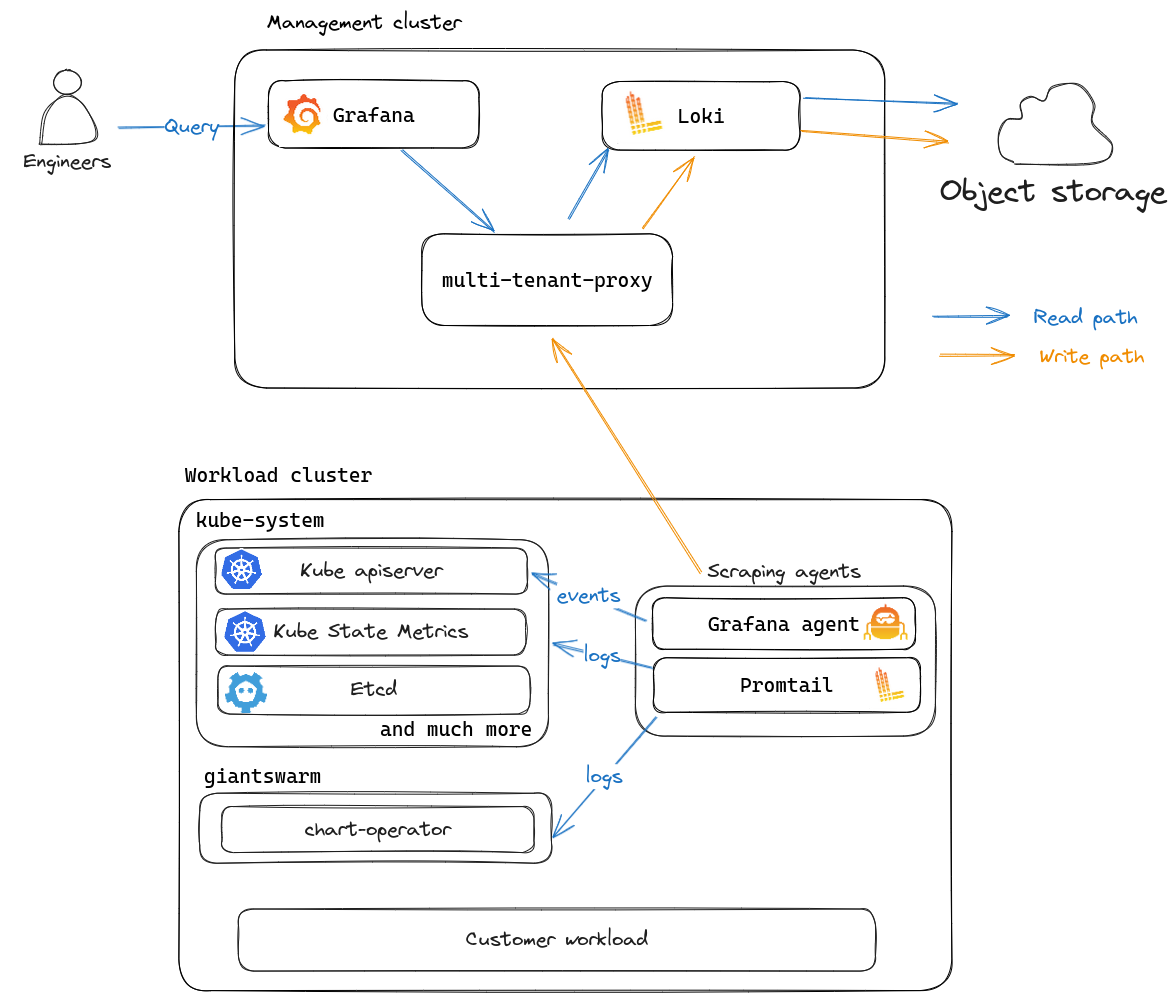
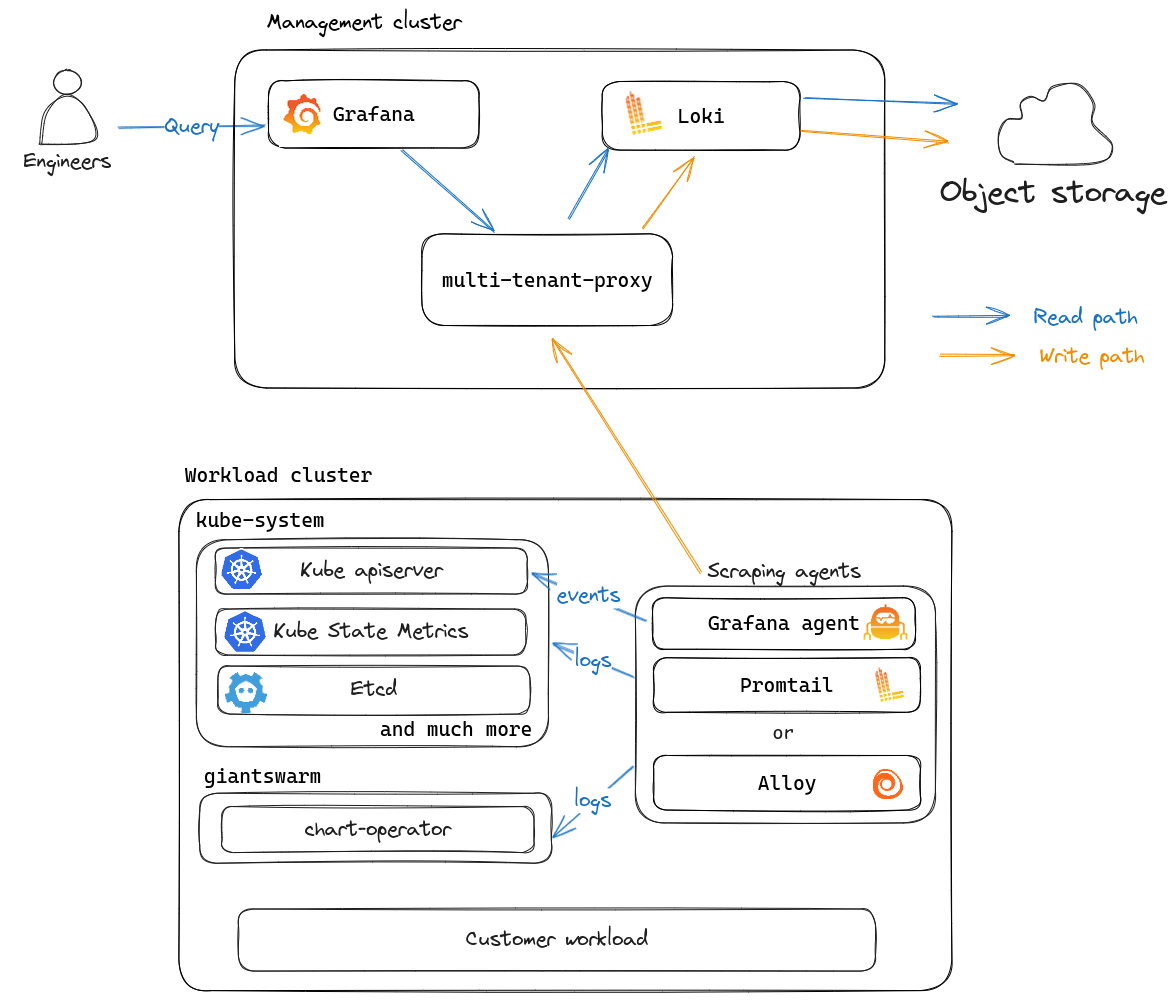
Update logging architecture

diff --git a/src/content/vintage/getting-started/observability/logging/architecture/index.md b/src/content/vintage/getting-started/observability/logging/architecture/index.md
@@ -35,9 +35,21 @@ In this diagram, you can see that we run the following tools in each management 
 
 - `Grafana Loki` that is accessible through our managed Grafana instance.
 - `multi-tenant-proxy`, a proxy component used to handle multi-tenancy for Loki.
-- A couple of logging agents (`Grafana Promtail` and `Grafana Agent`) that run on the management cluster and your workload clusters alike. We currently need two different tools for different purposes.
-    - Promtail is used to retrieve the container and kubernetes audit logs
+- A couple of scrapping agents run on the management cluster and your workload clusters alike. There is different tools for different purposes:
+    - Promtail is used in older versions to retrieve the container and kubernetes audit logs.
+    - Alloy is used in newer versions to retrieve the container and kubernetes audit logs.
     - Grafana Agent is used to retrieve the kubernetes events.
+
+### Release compatibility
+
+Release|Alloy|Promtail|Grafana Agent|
+-------|-----|--------|-------------|
+CAPA from v29.2.0|<i class="fas fa-check"></i>|<i class="fas fa-times"></i>|<i class="fas fa-check"></i>|
+CAPZ from v29.1.0|<i class="fas fa-check"></i>|<i class="fas fa-times"></i>|<i class="fas fa-check"></i>|
+CAPA until v29.1.0|<i class="fas fa-times"></i>|<i class="fas fa-check"></i>|<i class="fas fa-check"></i>|
+CAPZ until v29.0.0|<i class="fas fa-times"></i>|<i class="fas fa-check"></i>|<i class="fas fa-check"></i>|
+vintage (all releases)|<i class="fas fa-times"></i>|<i class="fas fa-check"></i>|<i class="fas fa-check"></i>|
+
 
 If you want to play with Loki, you should definitely check out our guides explaining [how to access Grafana]({{< relref "/tutorials/observability/data-exploration/accessing-grafana" >}}) and how to [explore logs with LogQL]({{< relref "/tutorials/observability/data-exploration/exploring-logs" >}})
 
